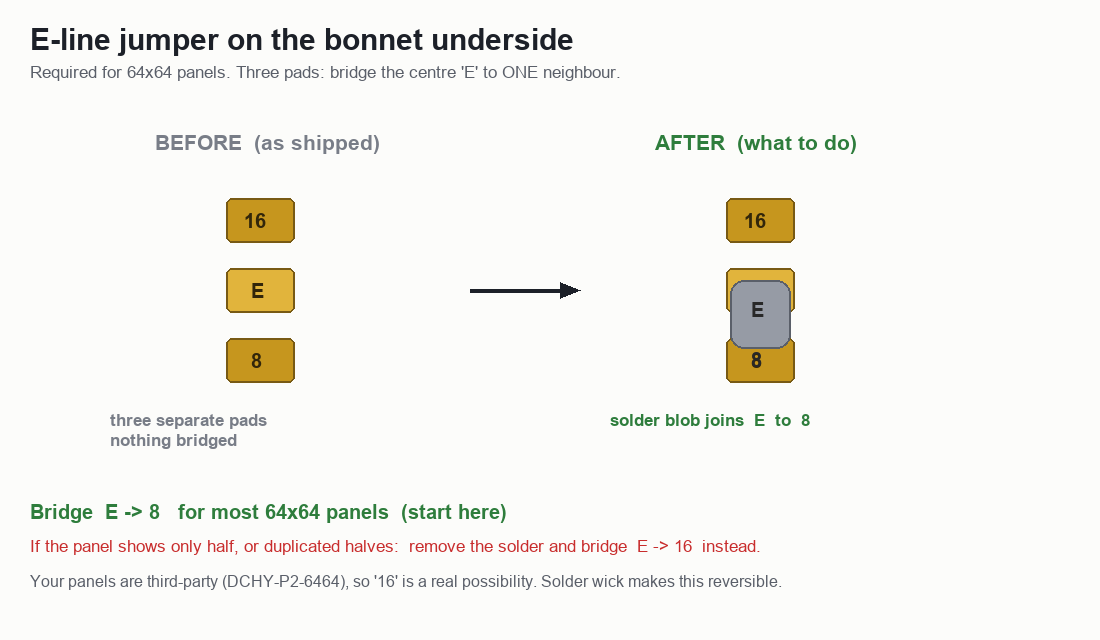
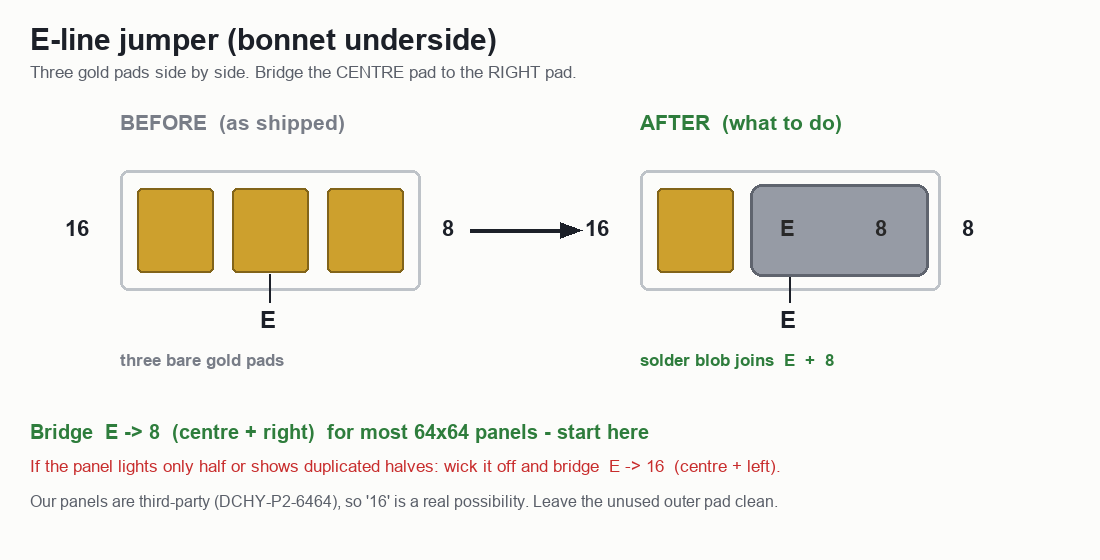
Correct E-jumper diagram: pads are horizontal, add real-board photo
The pads sit side by side (16 | E | 8), not stacked vertically as the
first diagram showed - the README's "above/below" wording was misleading.
Adds an annotated photo of the actual bonnet so the location is
unambiguous: just above the OE test-point block, the only group of three
bare gold rectangles.

diff --git a/plan.md b/plan.md
@@ -95,6 +95,14 @@ blob rather than a wire.
 
 ![E-line jumper](img/e-line-jumper.png)
 
+The three pads sit **side by side** (not stacked) on the bonnet's underside,
+just above the `OE` test-point block. They are the only group of three bare gold
+rectangles on the board. On our actual bonnet:
+
+![E pads on the real board](img/e-line-actual-board.png)
+
+`16` = left pad · `E` = centre pad (circled **E** label below it) · `8` = right pad.
+
 Per the [library README](https://github.com/hzeller/rpi-rgb-led-matrix#64x64-with-e-line-on-adafruit-hatbonnet):
 
 > Melt a blob of solder between the center "E" pad and the "8" pad just above it
